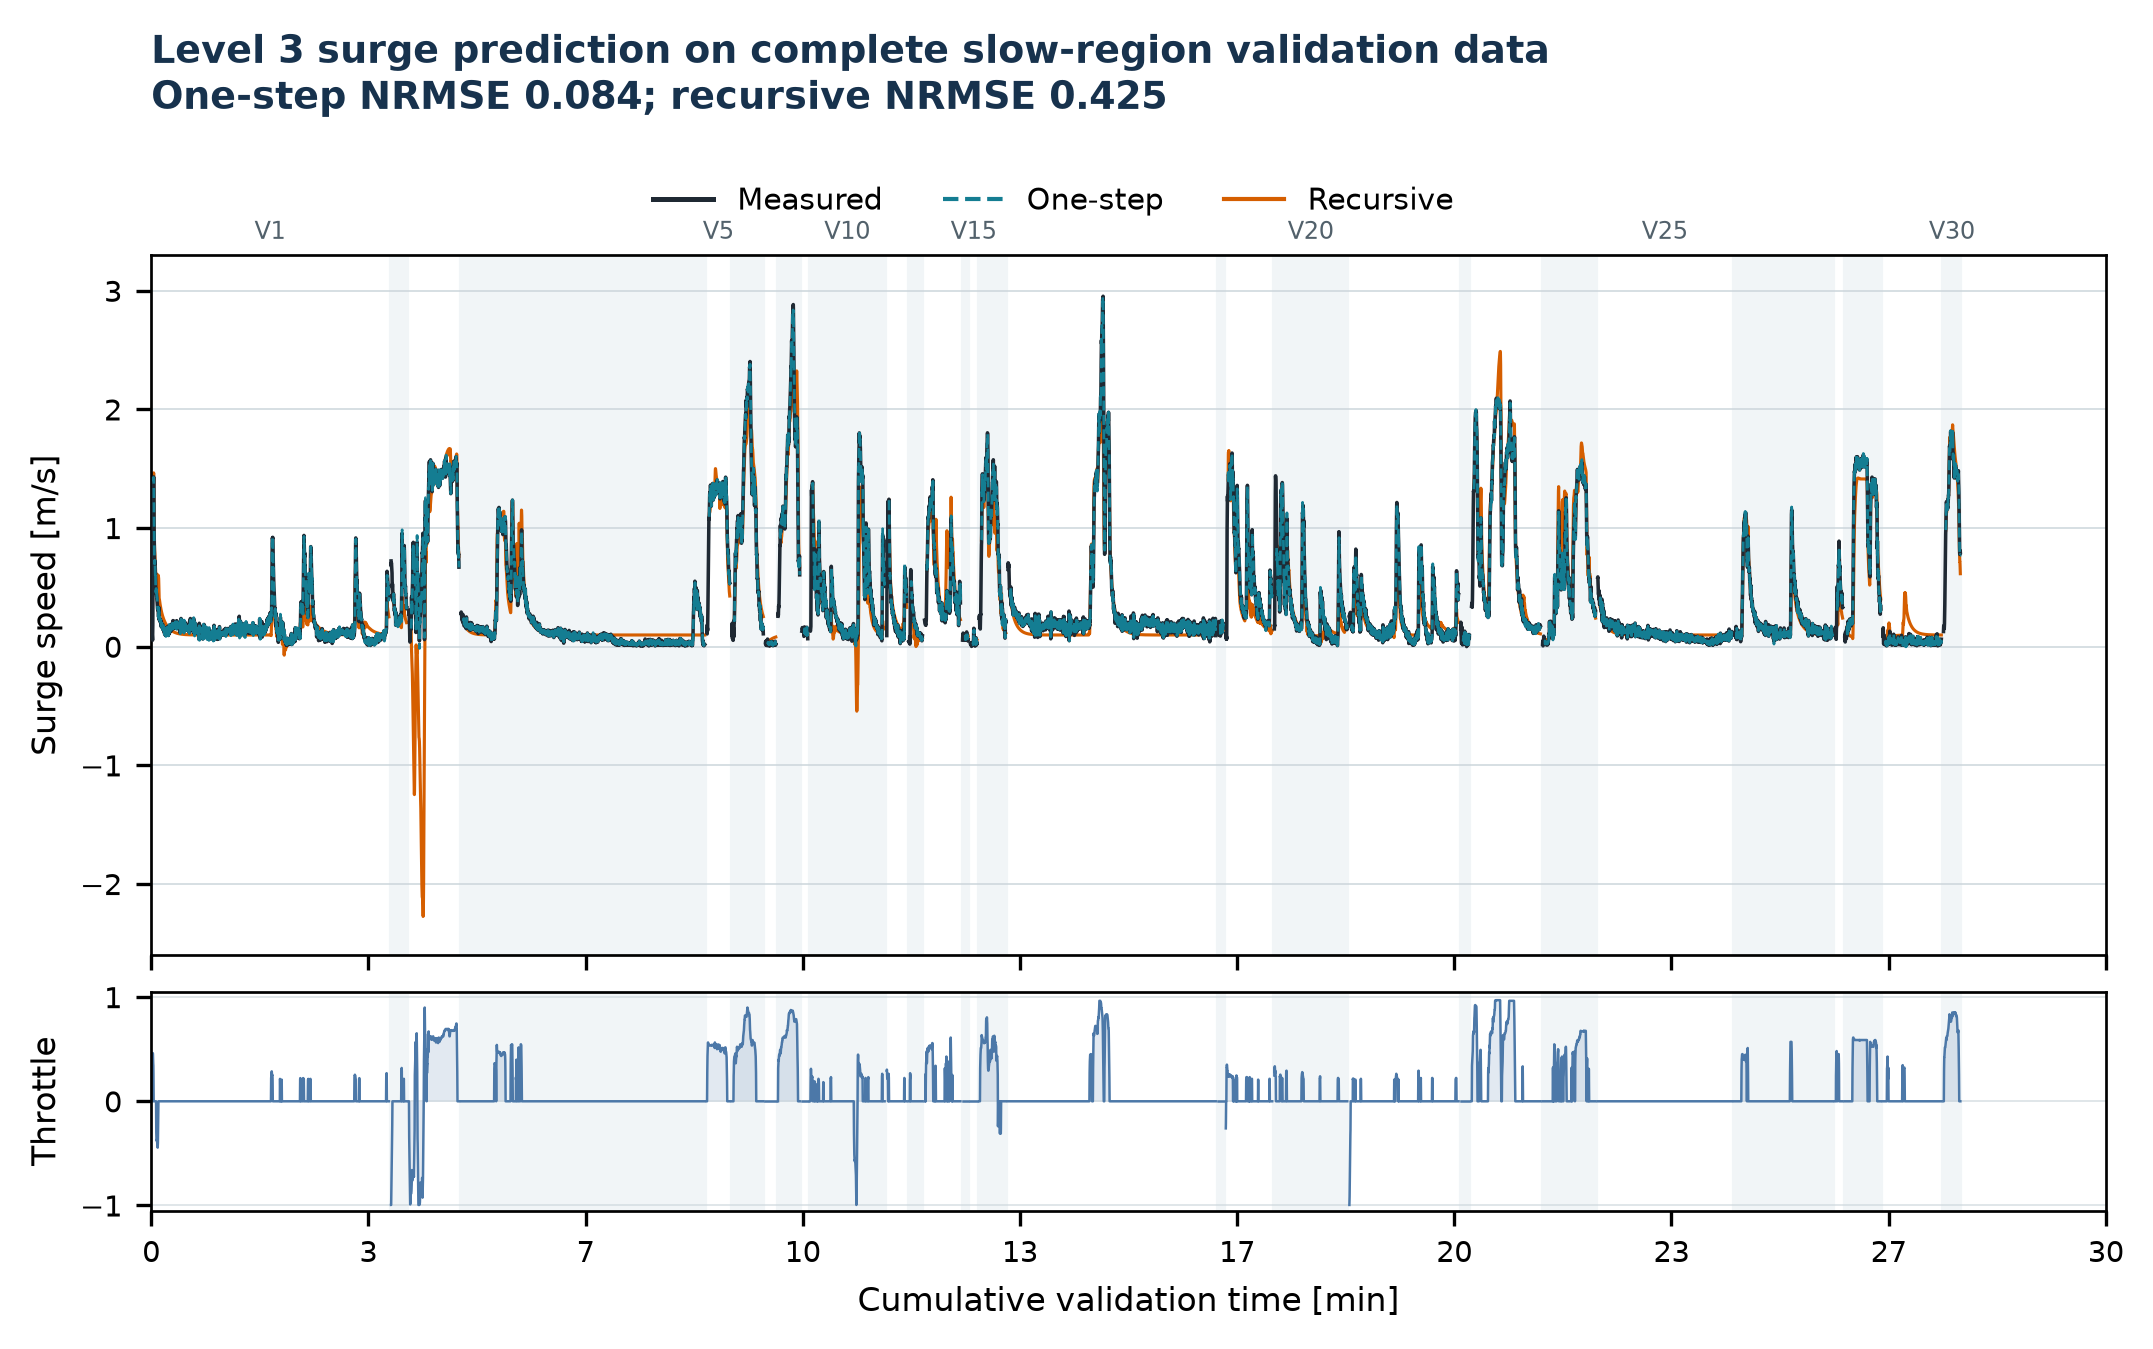
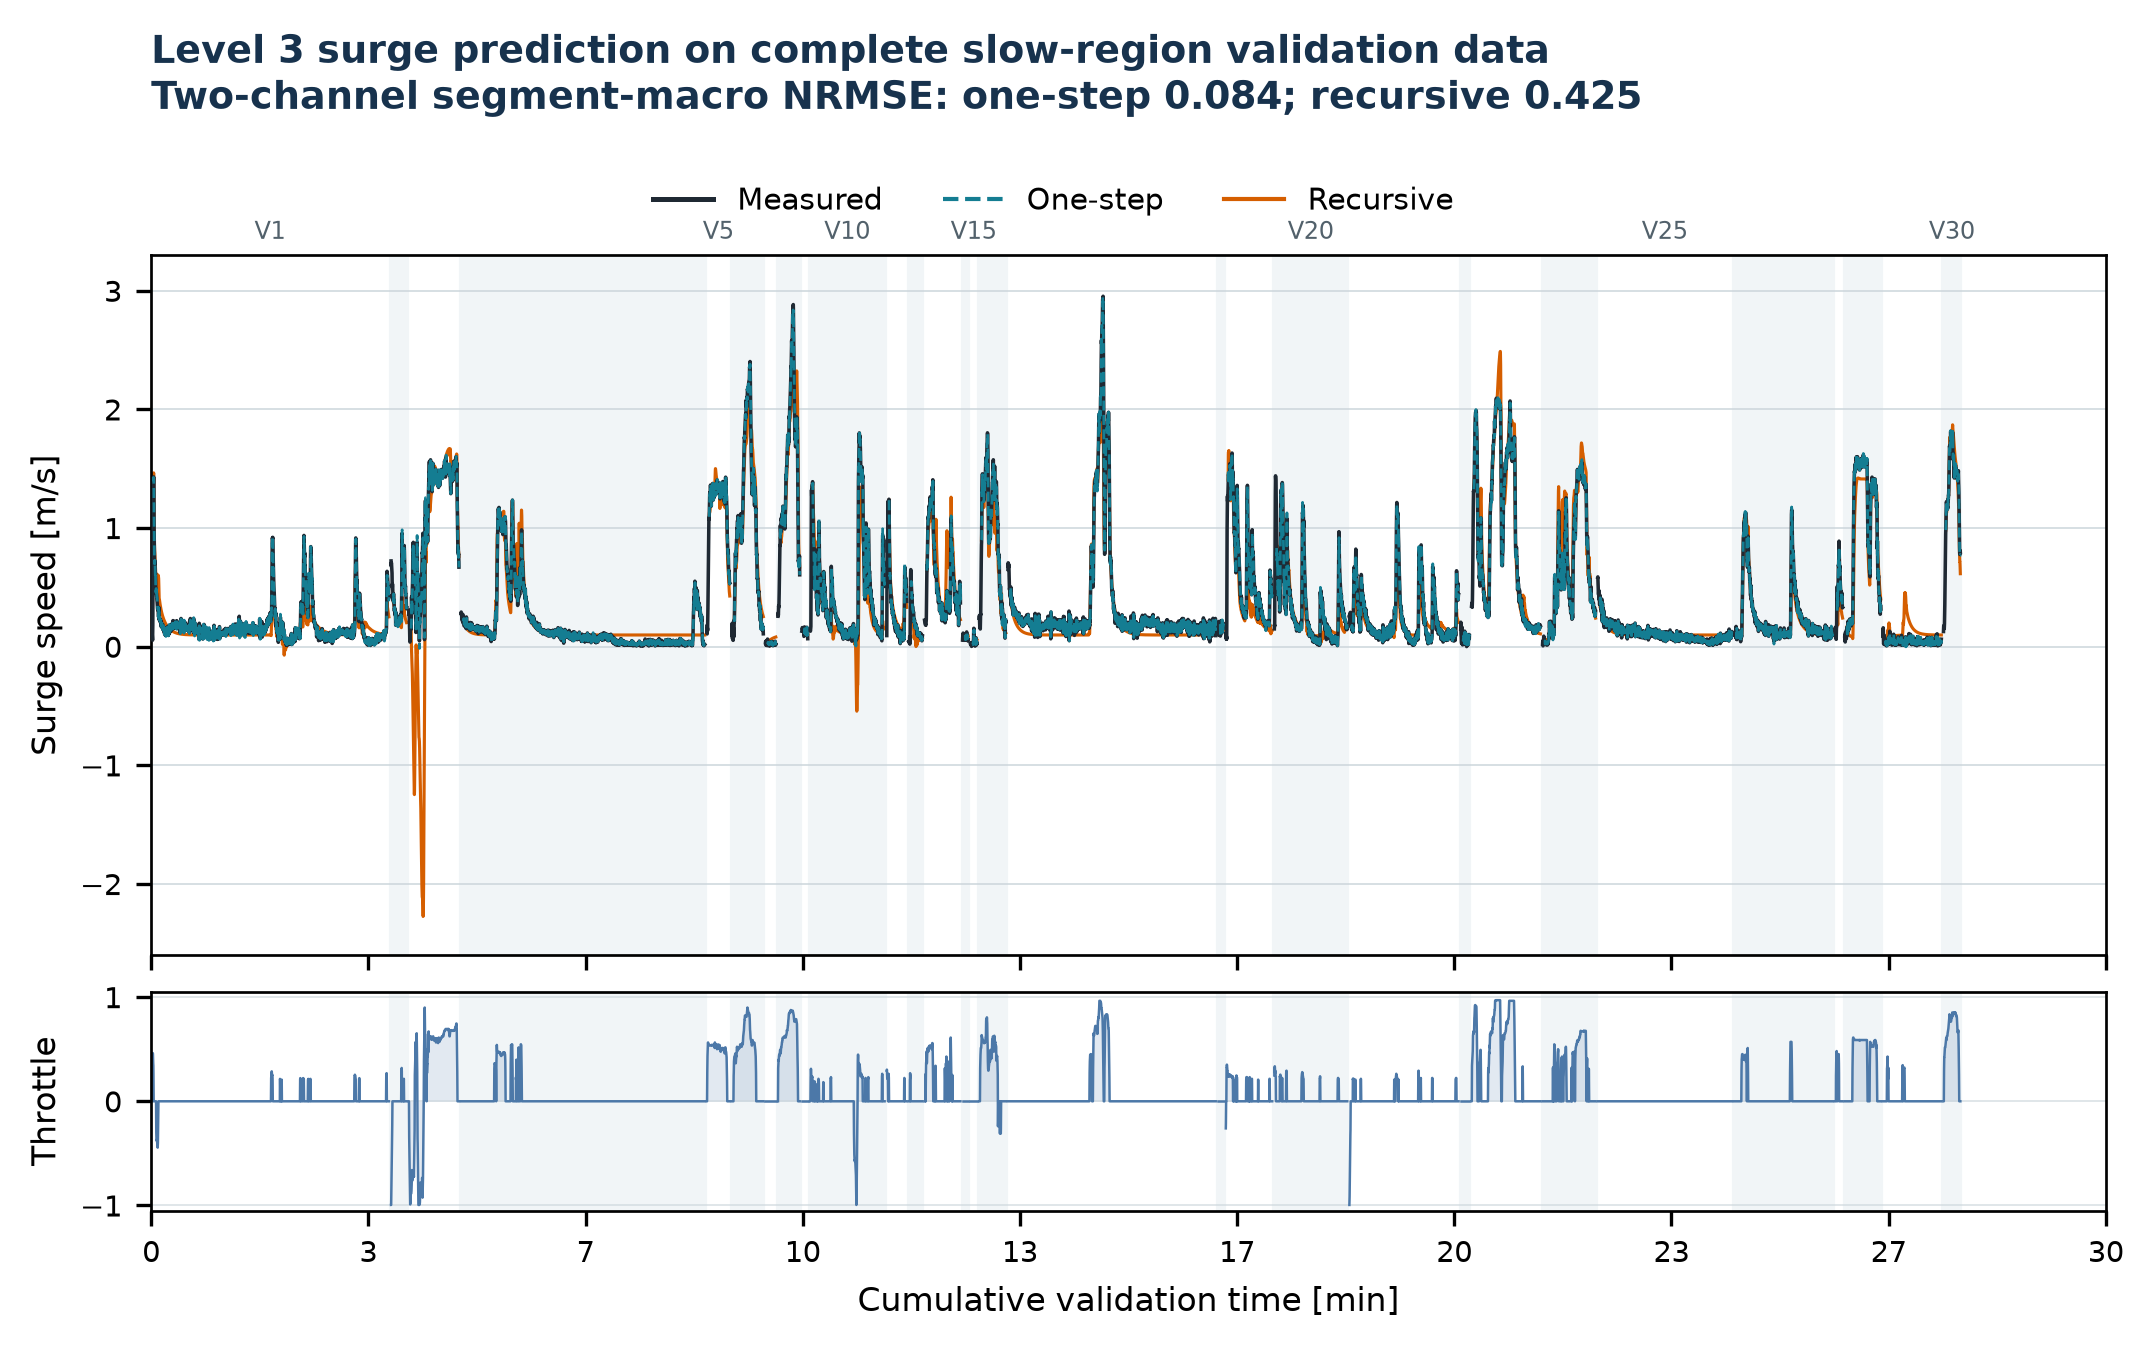
Checks for consistency among changes and addition of preview figures

Changed region(s): [[0.0622, 0.0623, 0.778, 0.0934]]

diff --git a/paper/paper.tex b/paper/paper.tex
@@ -85,8 +85,8 @@ underactuated control design, is not resolvable from a single short trial,
 motivating targeted data collection. A margin-based diagnostic makes the
 sufficiency question computable, reporting the forward speed at which the
 first-order model stops changing the control design. The NARX achieves one-step
-prediction $R^2=1.00$ for speed and $R^2=0.99$ for yaw rate; recursive simulation
-falls to $R^2=0.84$ and $R^2=0.77$, respectively, and exhibits surge divergence,
+prediction $R^2=0.998$ for speed and $R^2=0.991$ for yaw rate; recursive simulation
+falls to $R^2=0.836$ and $R^2=0.768$, respectively, and exhibits surge divergence,
 demonstrating that physical structure provides essential regularization under
 limited data. High-speed segments are retained for subsequent regime-spanning
 analysis.
@@ -293,8 +293,9 @@ validation figure use all viable nontraining slow-region recordings.
   28 source logs containing 30 segments. Each segment is initialized with 2~s of
   measured history. One-step prediction continues to use measured state history;
   recursive simulation feeds predicted states back while replaying recorded throttle.
-  Alternating backgrounds and short gaps mark segment boundaries. NRMSE uses the
-  training-only speed and yaw-rate scales.}
+  Alternating backgrounds and short gaps mark segment boundaries. Reported NRMSE
+  values are segment-macro averages over speed and yaw-rate errors normalized by
+  training-only channel scales.}
   \label{fig:level3-surge-validation}
 \end{figure*}
 

diff --git a/paper/abstract.tex b/paper/abstract.tex
@@ -50,8 +50,8 @@ underactuated control design, is not resolvable from a single short trial,
 motivating targeted data collection. A margin-based diagnostic makes the
 sufficiency question computable, reporting the forward speed at which the
 first-order model stops changing the control design. The NARX achieves one-step
-prediction $R^2=1.00$ for speed and $R^2=0.99$ for yaw rate; recursive simulation
-falls to $R^2=0.84$ and $R^2=0.77$, respectively, and exhibits surge divergence,
+prediction $R^2=0.998$ for speed and $R^2=0.991$ for yaw rate; recursive simulation
+falls to $R^2=0.836$ and $R^2=0.768$, respectively, and exhibits surge divergence,
 demonstrating that physical structure provides essential regularization under
 limited data. High-speed segments are retained for subsequent regime-spanning
 analysis.
